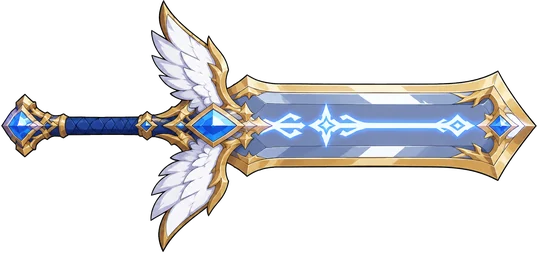
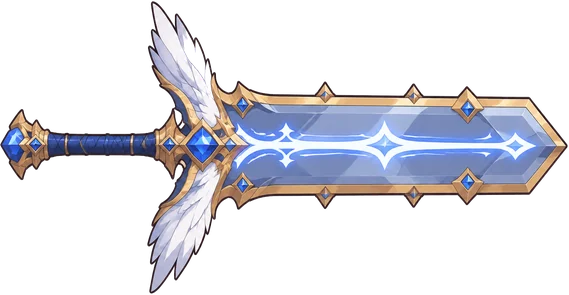
feat(weapons): redraw all greatswords straight (no hooked tips), Apophis after the official design, heftier in hand

Changed region(s): [[0.0, 0.0, 1.0, 0.996]]

diff --git a/src/content/avatar/weapon_art.js b/src/content/avatar/weapon_art.js
@@ -36,12 +36,12 @@ const WEAPON_IMG = {
   "ep_cb_kirin": {"w": 378, "h": 150, "gx": 113.5, "gy": 82.3, "tx": 378.1, "ty": 82.3, "size": 88.2, "kind": "club", "type": "club"},
   "ep_cb_soulmate": {"w": 378, "h": 164, "gx": 113.5, "gy": 80.4, "tx": 378.1, "ty": 80.4, "size": 88.2, "kind": "club", "type": "club"},
   "ep_club": {"w": 378, "h": 169, "gx": 113.5, "gy": 85.1, "tx": 378.1, "ty": 85.1, "size": 88.2, "kind": "club", "type": "club"},
-  "ep_greatsword": {"w": 517, "h": 193, "gx": 84.0, "gy": 93.8, "tx": 516.8, "ty": 93.8, "size": 144.3, "kind": "blade", "type": "greatsword"},
-  "ep_gs_apophis": {"w": 595, "h": 198, "gx": 92.7, "gy": 108.1, "tx": 595.1, "ty": 108.1, "size": 167.4, "kind": "blade", "type": "greatsword"},
-  "ep_gs_conqueror": {"w": 509, "h": 197, "gx": 76.4, "gy": 98.4, "tx": 509.1, "ty": 98.4, "size": 144.3, "kind": "blade", "type": "greatsword"},
-  "ep_gs_earth": {"w": 545, "h": 157, "gx": 111.7, "gy": 77.4, "tx": 544.5, "ty": 77.4, "size": 144.3, "kind": "blade", "type": "greatsword"},
-  "ep_gs_evildragon": {"w": 523, "h": 179, "gx": 89.7, "gy": 88.6, "tx": 522.4, "ty": 88.6, "size": 144.3, "kind": "blade", "type": "greatsword"},
-  "ep_gs_guardian": {"w": 537, "h": 253, "gx": 104.1, "gy": 125.7, "tx": 536.8, "ty": 125.7, "size": 144.3, "kind": "blade", "type": "greatsword"},
+  "ep_greatsword": {"w": 564, "h": 239, "gx": 92.9, "gy": 118.9, "tx": 563.3, "ty": 118.9, "size": 156.8, "kind": "blade", "type": "greatsword"},
+  "ep_gs_apophis": {"w": 653, "h": 242, "gx": 106.9, "gy": 120.5, "tx": 652.9, "ty": 120.5, "size": 182.0, "kind": "blade", "type": "greatsword"},
+  "ep_gs_conqueror": {"w": 561, "h": 232, "gx": 90.2, "gy": 115.5, "tx": 560.6, "ty": 115.5, "size": 156.8, "kind": "blade", "type": "greatsword"},
+  "ep_gs_earth": {"w": 573, "h": 195, "gx": 102.0, "gy": 95.1, "tx": 572.4, "ty": 95.1, "size": 156.8, "kind": "blade", "type": "greatsword"},
+  "ep_gs_evildragon": {"w": 576, "h": 236, "gx": 105.6, "gy": 117.5, "tx": 576.0, "ty": 117.5, "size": 156.8, "kind": "blade", "type": "greatsword"},
+  "ep_gs_guardian": {"w": 569, "h": 295, "gx": 98.4, "gy": 144.3, "tx": 568.8, "ty": 144.3, "size": 156.8, "kind": "blade", "type": "greatsword"},
   "ep_handcannon": {"w": 233, "h": 108, "gx": 18.4, "gy": 68.8, "tx": 232.9, "ty": 68.8, "size": 71.5, "kind": "gun", "type": "handcannon", "dual": 0},
   "ep_hc_aqua": {"w": 263, "h": 146, "gx": 48.7, "gy": 93.8, "tx": 263.2, "ty": 93.8, "size": 71.5, "kind": "gun", "type": "handcannon", "dual": 0},
   "ep_hc_breaker": {"w": 238, "h": 101, "gx": 23.5, "gy": 63.2, "tx": 238.0, "ty": 63.2, "size": 71.5, "kind": "gun", "type": "handcannon", "dual": 0},
@@ -90,10 +90,10 @@ const WEAPON_IMG = {
   "ep_st_willy": {"w": 512, "h": 169, "gx": 179.3, "gy": 84.7, "tx": 511.9, "ty": 84.7, "size": 110.9, "kind": "pole", "type": "staff"},
   "ep_st_witchgold": {"w": 512, "h": 163, "gx": 179.3, "gy": 87.9, "tx": 511.9, "ty": 87.9, "size": 110.9, "kind": "pole", "type": "staff"},
   "ep_staff": {"w": 512, "h": 159, "gx": 179.3, "gy": 79.0, "tx": 511.9, "ty": 79.0, "size": 110.9, "kind": "pole", "type": "staff"},
-  "greatsword": {"w": 463, "h": 121, "gx": 76.0, "gy": 60.3, "tx": 462.4, "ty": 60.3, "size": 128.8, "kind": "blade", "type": "greatsword"},
-  "greatsword_r2": {"w": 472, "h": 130, "gx": 77.1, "gy": 64.9, "tx": 471.3, "ty": 64.9, "size": 131.4, "kind": "blade", "type": "greatsword"},
-  "greatsword_r3": {"w": 487, "h": 184, "gx": 77.4, "gy": 89.7, "tx": 487.0, "ty": 89.7, "size": 136.5, "kind": "blade", "type": "greatsword"},
-  "greatsword_r4": {"w": 527, "h": 180, "gx": 86.4, "gy": 90.5, "tx": 526.8, "ty": 90.5, "size": 146.8, "kind": "blade", "type": "greatsword"},
+  "greatsword": {"w": 509, "h": 154, "gx": 89.2, "gy": 77.5, "tx": 509.2, "ty": 77.5, "size": 140.0, "kind": "blade", "type": "greatsword"},
+  "greatsword_r2": {"w": 527, "h": 172, "gx": 97.8, "gy": 83.3, "tx": 526.2, "ty": 83.3, "size": 142.8, "kind": "blade", "type": "greatsword"},
+  "greatsword_r3": {"w": 543, "h": 237, "gx": 97.4, "gy": 118.5, "tx": 542.6, "ty": 118.5, "size": 148.4, "kind": "blade", "type": "greatsword"},
+  "greatsword_r4": {"w": 582, "h": 258, "gx": 102.7, "gy": 128.6, "tx": 581.5, "ty": 128.6, "size": 159.6, "kind": "blade", "type": "greatsword"},
   "handcannon": {"w": 212, "h": 90, "gx": 16.4, "gy": 58.7, "tx": 211.4, "ty": 58.7, "size": 65.0, "kind": "gun", "type": "handcannon", "dual": 0},
   "handcannon_r2": {"w": 216, "h": 92, "gx": 16.7, "gy": 60.0, "tx": 215.6, "ty": 60.0, "size": 66.3, "kind": "gun", "type": "handcannon", "dual": 0},
   "handcannon_r3": {"w": 222, "h": 101, "gx": 15.4, "gy": 66.0, "tx": 222.1, "ty": 66.0, "size": 68.9, "kind": "gun", "type": "handcannon", "dual": 0},
@@ -134,7 +134,7 @@ const WEAPON_IMG = {
   "spring_bowgun": {"w": 246, "h": 123, "gx": 49.3, "gy": 83.8, "tx": 246.1, "ty": 83.8, "size": 65.6, "kind": "gun", "type": "bowgun", "dual": 0},
   "spring_broom": {"w": 491, "h": 147, "gx": 171.8, "gy": 54.0, "tx": 490.6, "ty": 54.0, "size": 106.3, "kind": "pole", "type": "broom"},
   "spring_club": {"w": 378, "h": 156, "gx": 113.5, "gy": 53.0, "tx": 378.1, "ty": 53.0, "size": 88.2, "kind": "club", "type": "club"},
-  "spring_greatsword": {"w": 489, "h": 161, "gx": 83.2, "gy": 60.5, "tx": 488.9, "ty": 60.5, "size": 135.2, "kind": "blade", "type": "greatsword"},
+  "spring_greatsword": {"w": 532, "h": 266, "gx": 90.4, "gy": 99.6, "tx": 531.4, "ty": 99.6, "size": 147.0, "kind": "blade", "type": "greatsword"},
   "spring_handcannon": {"w": 224, "h": 113, "gx": 18.9, "gy": 70.7, "tx": 223.7, "ty": 70.7, "size": 68.2, "kind": "gun", "type": "handcannon", "dual": 0},
   "spring_katana": {"w": 489, "h": 193, "gx": 63.6, "gy": 54.0, "tx": 488.8, "ty": 54.0, "size": 141.8, "kind": "blade", "type": "katana"},
   "spring_lightsaber": {"w": 449, "h": 157, "gx": 62.9, "gy": 40.0, "tx": 448.7, "ty": 40.0, "size": 128.6, "kind": "saber", "type": "lightsaber"},
@@ -153,7 +153,7 @@ const WEAPON_IMG = {
   "summer_bowgun": {"w": 246, "h": 116, "gx": 49.3, "gy": 80.9, "tx": 246.1, "ty": 80.9, "size": 65.6, "kind": "gun", "type": "bowgun", "dual": 0},
   "summer_broom": {"w": 491, "h": 153, "gx": 171.8, "gy": 72.1, "tx": 490.6, "ty": 72.1, "size": 106.3, "kind": "pole", "type": "broom"},
   "summer_club": {"w": 303, "h": 109, "gx": 90.8, "gy": 54.3, "tx": 302.5, "ty": 54.3, "size": 70.6, "kind": "club", "type": "club"},
-  "summer_greatsword": {"w": 497, "h": 152, "gx": 90.8, "gy": 73.0, "tx": 496.5, "ty": 73.0, "size": 135.2, "kind": "blade", "type": "greatsword"},
+  "summer_greatsword": {"w": 506, "h": 157, "gx": 65.1, "gy": 74.6, "tx": 506.1, "ty": 74.6, "size": 147.0, "kind": "blade", "type": "greatsword"},
   "summer_handcannon": {"w": 236, "h": 109, "gx": 31.2, "gy": 68.9, "tx": 236.0, "ty": 68.9, "size": 68.2, "kind": "gun", "type": "handcannon", "dual": 0},
   "summer_katana": {"w": 504, "h": 112, "gx": 78.4, "gy": 54.7, "tx": 503.7, "ty": 54.7, "size": 141.8, "kind": "blade", "type": "katana"},
   "summer_lightsaber": {"w": 449, "h": 71, "gx": 62.9, "gy": 35.0, "tx": 448.7, "ty": 35.0, "size": 128.6, "kind": "saber", "type": "lightsaber"},

diff --git a/art/tools/avatar_weapons.py b/art/tools/avatar_weapons.py
@@ -26,7 +26,7 @@ SIZE = {'shortsword': 72, 'katana': 100, 'club': 70, 'greatsword': 112, 'lightsa
         'revolver': 40, 'autopistol': 38, 'rifle': 70, 'handcannon': 52, 'bowgun': 50,
         'spear': 95, 'pole': 85, 'rod': 50, 'staff': 88, 'broom': 88}   # 长杆（握点在图里 35% 处）：全长 ≈ size / 0.65，画的时候再按占位棍截短
 # 拿在手里再放大（v2 武器重做：原来 1 倍画面里短剑只有 75 像素，改了设计也看不出来）
-HAND = {'shortsword': 1.35, 'katana': 1.35, 'lightsaber': 1.25, 'greatsword': 1.15, 'club': 1.2,
+HAND = {'shortsword': 1.35, 'katana': 1.35, 'lightsaber': 1.25, 'greatsword': 1.25, 'club': 1.2,
         'revolver': 1.6, 'autopistol': 1.6, 'rifle': 1.2, 'handcannon': 1.25, 'bowgun': 1.25,   # 小手枪 1 倍下原来只有 40 像素，放得最多
         'staff': 1.2, 'rod': 1.3, 'broom': 1.15, 'pole': 1.1, 'spear': 1.1}
 # 握法：grip = 握点在握柄上（剑、枪、魔杖）；tip = 长杆按杖头对齐（魔法师的长武器，握在杆子中段哪里都行）
@@ -43,7 +43,7 @@ EP_TYPE = {'ep_shortsword': 'shortsword', 'ep_katana': 'katana', 'ep_katana2': '
 TIER_MUL = {2: 1.02, 3: 1.06, 4: 1.14}   # 普通武器的品级外观 <类型>_r2/r3/r4：稀有 / 神器 / 传说，一级比一级长（传说长 10~15%）
 EPIC_MUL = {'greatsword': 1.12, 'revolver': 1.15, 'autopistol': 1.15, 'handcannon': 1.1, 'bowgun': 1.1, 'rod': 1.1}   # 史诗默认比普通武器长 5%；巨剑更夸张，小枪 / 魔杖放大一点才看得清
 WIDE = {'katana': 1.2, 'lightsaber': 1.15, 'greatsword': 1.1}   # 史诗 / 品级外观只加宽不加长：太刀、光剑在游戏里别细成一根线
-WIDE_V2 = {'katana': 1.25}   # v2 图：太刀刀身画得细，1 倍下像一根线，加宽 25%
+WIDE_V2 = {'katana': 1.25, 'greatsword': 1.25}   # v2 图：太刀刀身画得细，1 倍下像一根线，加宽 25%；巨剑要够厚重（用户：不够霸气），也加宽 25%
 def tier_type(key):
     t, _, r = key.rpartition('_r')
     return t if t in SIZE and r in ('2', '3', '4') else None
